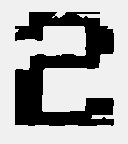
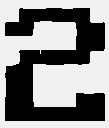
dinamic threshold in small digits and images replace

Changed region(s): [[0.0275, 0.0625, 0.9633, 0.9688]]

diff --git a/captcha/solveCaptcha.py b/captcha/solveCaptcha.py
@@ -60,7 +60,6 @@ def getDigits(d,img, gray=True, threshold = 1):
 
         p = positions(template,img=img,threshold=threshold)
         if len (p) > 0:
-            print('digit {} found!, x: {}'.format(i, p[0][0]))
             digits.append({'digit':str(i),'x':p[0][0]})
 
     def getX(e):
@@ -260,21 +259,30 @@ def getBackgroundText():
         path = "./tmp/{}.png".format(str(time.time()))
         cv2.imwrite(path,data[0])
     digits = getDigits(d,data[0],threshold = 0.9)
-    # cv2.imshow('test',data[0])
-    # cv2.waitKey(0)
-    # img = captchaImg(screenshot, popup_pos[0])
-    # cv2.imshow('img',img)
-    # cv2.waitKey(0)
+
     return digits
 
-def getSmallDigits(img):
+def getSmallDigits(img, threshold=0.95,i=0):
     if __name__ == '__main__':
         path = "./tmp/small{}.png".format(str(time.time()))
         # cv2.imwrite(path,img)
-    digits = getDigits(s,img, gray=False, threshold=0.95)
-    print('fg = {}'.format(digits))
+    digits = getDigits(s,img, gray=False, threshold=threshold)
 
-    return digits
+    if i > 10:
+        if __name__ == '__main__':
+            path = "./tmp/small{}.png".format(str(time.time()))
+            cv2.imwrite(path,img)
+            print('too many')
+            print(digits)
+        return digits
+
+    if len(digits) == 3:
+        print('fg = {}'.format(digits))
+        return digits
+    if len(digits) < 3:
+        return getSmallDigits(img,threshold=threshold-0.3,i=i+1)
+    if len(digits) > 3:
+        return getSmallDigits(img,threshold=threshold+0.07,i=i+1)
 
 def solveCaptcha():
     screenshot = printSreen()
@@ -307,6 +315,7 @@ def solveCaptcha():
             return
     print('not found... trying again!')
     pyautogui.mouseUp()
+    time.sleep(3)
     solveCaptcha()
     return
 
